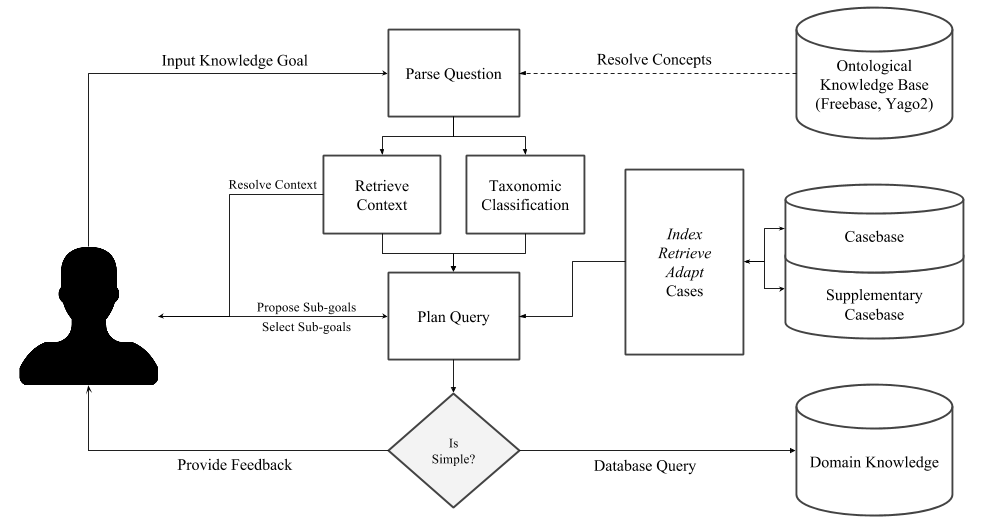
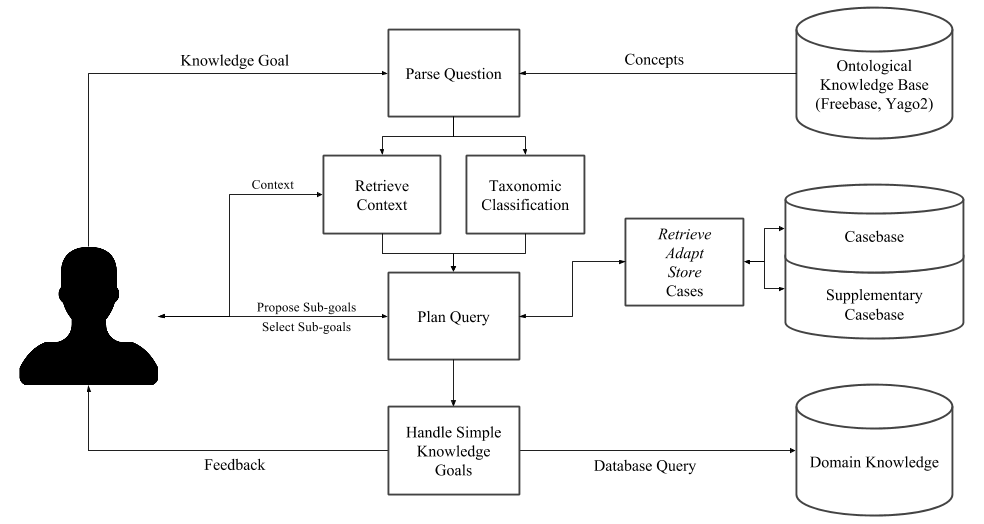
final revisions

diff --git a/pending/ACS-GRW2015/main.tex b/pending/ACS-GRW2015/main.tex
@@ -46,9 +46,9 @@ Knowledge goals are used by reasoning entities to fill in information required f
 
 A \textit{knowledge goal} represents the purposeful need to acquire information in order to fill in gaps of world knowledge for a reasoning entity or to extend the database of a computational understanding system \cite{ram_goal-based_1991}. For humans, knowledge goals are most easily represented as questions, and current research on dialog-driven question and answer systems focuses on the semantic parsing of a natural language question to a structured database query \cite{yahya_natural_2012} or lambda calculus representation \cite{berant_semantic_2013}. These parsing approaches are making headway in the solution of simple knowledge goals, where the primary task is a retrieval from some structured knowledge base; especially goals that ask who, what, when, or where. This approach, however, cannot solve complex knowledge goals including aggregations, opinions (recommendations), or explanations for why or how questions. As a result, even though information retrieval systems and search have made information easily accessible, there has been the growth of community-driven question sites such as Quora \cite{wang_wisdom_2013} to connect users to the more nuanced answers they are looking for.
 
-We claim that humans solve complex knowledge goals through \textit{investigation}, dividing harder questions into simpler sub-knowledge goals with more easily obtained solutions. When solving knowledge goals, humans also take into account context and approach new problems by leveraging techniques that have worked in the past. A system that models how humans investigate questions will \textit{deconstruct} a complex goal, \textit{integrate} relevant knowledge, and \textit{reuse} methods of investigation. Investigation can be represented as a plan to solve the larger knowledge goal, and if the tasks or subgoals of knowledge acquisition plans are simple knowledge goals that can be solved via structured data retrieval, then a system can be said to solve complex knowledge goals through a planning process that involves the purposeful combination of simpler knowledge goals.
+We claim that humans solve complex knowledge goals through \textit{investigation}, dividing harder questions into simpler sub-knowledge goals with more easily obtained solutions. When solving knowledge goals, humans also take into account context and approach new problems by leveraging techniques that have worked in the past. A system that models how humans investigate questions will \textit{deconstruct} a complex goal, \textit{integrate} relevant knowledge, and \textit{reuse} methods of investigation. Investigation can be represented as a plan to solve the larger knowledge goal, and if the tasks or sub-goals of knowledge acquisition plans are simple knowledge goals that can be solved via structured data retrieval, then a system can be said to solve complex knowledge goals through a planning process that involves the purposeful combination of simpler knowledge goals.
 
-In this paper we present a vision for an interactive knowledge-goal reasoning system that uses a case-based reasoning methodology to deconstruct complex knowledge goals based on previous cases for similar questions. The system will provide users with goal-driven solutions to natural language queries by proposing plans of simpler knowledge goals, which can be satisfied by computationally tractable tasks like database queries or document retrieval. The system takes into account the context of the goal by leveraging semantic resources applied to the question and utilizes a wide array of data sources to perform retrieval tasks--from database queries, to search, to providing other user responses for complex questions. As subtasks are selected by the initiating user, the case-based reasoning system reinforces and indexes how the plan was solved in order to provide more relevant plans or responses in the future.
+In this paper we present a vision for an interactive knowledge-goal reasoning system that uses a case-based reasoning methodology to deconstruct complex knowledge goals based on previous cases for similar questions. The system will provide users with goal-driven solutions to natural language queries by proposing plans for simpler knowledge goals, which can be satisfied by computationally tractable tasks like database queries or document retrieval. The system takes into account the context of the goal by leveraging semantic resources applied to the question and utilizes a wide array of data sources to perform retrieval tasks--from database queries, to search, to providing other user responses for complex questions. As subtasks are selected by the initiating user, the case-based reasoning system reinforces and indexes how the plan was solved in order to provide more relevant plans or responses in the future.
 
 Because this type of system is interactive and adaptive it is subject to goal changes, where the original knowledge goal is changed or refined slightly while the user interactively follows a solution plan. The complete case for solving a complex knowledge goal therefore represents a \textit{goal trajectory}. Goal trajectories are important for refining future cases, ranking plan solutions, and having the system anticipate knowledge goals to propose better plans. Furthermore, the combination of goal trajectories can be seen as a creative process, leading to the extension of not only the casebase, but also to extend automatically the knowledge base of the system.
 
@@ -68,7 +68,7 @@ We can define \textit{simple} knowledge goals as questions that are directly tie
 
 \subsection{Knowledge Goal Representation}
 
-The representation of a knowledge goal can be described by its objective: the type of the expected response (concept specification) and how the information will be used (task specification) \cite{ram_theory_1991}. To create a plan to solve a knowledge goal, a computational system must be able to represent knowledge goals in a structured manner, and identify and parse the structure from a natural language query. We extend this representation to leverage the additional components available in an interactive knowledge-goal reasoning system. Knowledge goals are composed of three primary features: a set of \textit{concepts}, a \textit{task}, and a specific \textit{context}. Each feature contributes to the solution as follows:
+The representation of a knowledge goal can be described by its objective: the type of the expected response (concept specification) and how the information will be used (task specification) \cite{ram_theory_1991}. To create a plan to solve a knowledge goal, a computational system must be able to represent knowledge goals in a structured manner, and identify and parse the structure from a natural language query. We extend this representation to leverage the additional components available in an interactive knowledge-goal reasoning system. Knowledge goals are composed of three primary features: a set of \textit{concepts}, a \textit{task}, and a specific \textit{context}.
 
 \begin{enumerate}
 
@@ -81,35 +81,35 @@ The representation of a knowledge goal can be described by its objective: the ty
 
 In the question ``\textit{When is the next flight to Paris?}'' the \textit{concept} explicitly includes the topic \texttt{Air Travel} as well as a city, \texttt{Paris}. Implied concepts might include \texttt{Paris, France}, the most popular city named Paris, and \texttt{Charles de Gaulle Airport}. The \textit{task} can generally be defined as a simple database query or search, but more specifically the return of a specific \texttt{Flight} record. The \texttt{context} is critical as well, especially the geographic context (the next flight to Paris from the city where the user is currently located) and the temporal context (in order to determine when the next flight might be).
 
-Many applications simplify one or more components of a knowledge goal in order to be effective. Domain-specific applications reduce ambiguity in concepts and context by allowing only specifically relevant knowledge goals. More commonly, applications simplify the task and are designed to return only a single type of result. However, the widespread availability of large, general knowledge bases combined with timely contextual information from mobile devices mean that complete, personalized question and answer systems are becoming computationally tractable and knowledge goal simplification can no longer be used as an approximation for goal reasoning systems.
+Many applications simplify one or more components of a knowledge goal in order to be effective. Domain-specific applications reduce ambiguity in concepts and context by allowing only specifically relevant knowledge goals. More commonly, applications simplify the task and are designed to return only a single type of result. However, the widespread availability of large knowledge bases combined with timely contextual information from mobile devices mean that complete, personalized question and answer systems are becoming computationally tractable and knowledge goal simplification should no longer be used as an approximation for goal reasoning systems.
 
 \subsection{Solving Knowledge Goals}
 
 % Mention interactivity? %
 
-An important step in the development of dialog-driven question and answer systems was the creation of large-scale structured knowledge bases like Freebase \cite{bollacker_freebase:_2008} and Yago2 \cite{suchanek_yago:_2007}. These databases represent a wealth of information generated from collaboratively edited encyclopedic sites like Wikipedia and provide the means with which to make factual queries about the world. Semantic parsers can take advantage of hierarchical, relational ontologies which allow for a generalization in the domain or \textit{concept} component of a question. For simple knowledge goals, semantic parsers can transform natural language questions into structured queries like SPARQL or SQL \cite{yahya_natural_2012}, a lambda-calculus representation \cite{berant_semantic_2013}, or simply a template from which to directly search other answers \cite{unger_template-based_2012}.
+An important step in the development of dialog-driven question and answer systems was the creation of large-scale structured knowledge bases like Freebase \cite{bollacker_freebase:_2008} and Yago2 \cite{suchanek_yago:_2007}. These databases represent a wealth of information generated from collaboratively edited encyclopedic sites like Wikipedia and provide the means with which to make factual queries about the world. Semantic parsers can take advantage of hierarchical, relational ontologies which allow for a generalization in the domain or \textit{concept} component of a question. For simple knowledge goals, semantic parsers can transform natural language questions into structured queries like SPARQL or SQL \cite{yahya_natural_2012}, a lambda-calculus representation \cite{berant_semantic_2013}, or simply a template to directly search other answers \cite{unger_template-based_2012}.
 
 However, these parsers will struggle with even slightly more complex natural language queries tasked with a database lookup in a knowledge base, such as ``\textit{Who was the King of England when Thomas Jefferson was President?}'' This knowledge goal is a factual retrieval that can be solved by chaining subqueries to first solve which years Thomas Jefferson was President of the United States, then use the result to determine the King of England during that time period. Similarly, knowledge goals that require aggregation, such as ``\textit{How many countries have won three consecutive gold medals in a single sport?}'', may be able to be transformed into a series of simpler sub queries which contribute information to a final result.
 
-The decomposition method of solving fact-based retrieval questions can also be applied to complex knowledge goals whose task is not simply a query or search. When a complex knowledge goal is reduced to one or more simpler sub goals, the result is a hierarchical plan to solve the original knowledge goal. If the final leaf nodes of such a plan are simple knowledge goals which can be transformed into a query or a search, then a system can said to solve complex knowledge goals through the computationally tractable combination of simpler knowledge goals.
+The decomposition method of solving fact-based retrieval questions can also be applied to complex knowledge goals whose task is not simply a query or search. When a complex knowledge goal is reduced to one or more simpler sub-goals, the result is a hierarchical plan to solve the original knowledge goal. If the final leaf nodes of such a plan are simple knowledge goals which can be transformed into a query or a search, then a system can said to solve complex knowledge goals through the computationally tractable combination of simpler knowledge goals.
 
 \begin{figure}
 	\centering
 	    \includegraphics[width=\textwidth]{figures/simple_trajectory.png}
-    \caption{\label{fig:simple_trajectory.png}Interactive knowledge goal reasoning on the complex goal, ``What courses should I take next semester?''. The system resolves context dependencies, then proposes a plan of simpler sub-goals that lead to database queries using information from prior goals (represented as \texttt{\small\$VAR)}. Depending on the interaction, a goal trajectory can modify the original goal to ``Can I graduate next semester?'', which continues the process.}
+    \caption{\label{fig:simple_trajectory.png}Interactive knowledge goal reasoning on the complex goal ``What courses should I take next semester?'' The system resolves context dependencies and then proposes a plan of simpler sub-goals that lead to database queries using information from prior goals (represented as \texttt{\small\$VAR)}. Depending on interaction, goal trajectories can modify the original goal to ``Can I graduate next semester?'' continuing the process.}
 \end{figure}
 
-Consider an example complex knowledge goal, ``\textit{What courses should I take next semester?}'', outlined in Figure \ref{fig:simple_trajectory.png}. This knowledge goal is routine, executed by the same user on a regular interval and common enough that a casebase of solutions is readily available. The task of this knowledge goal is to create a list of courses which are available next semester and which the student will presumably be able to register for. The concept of the question is the domain of courses that are available at a particular university during a particular semester. The context for a user determines preference in terms of the selected major or course level as well as geographical context (which specific university) and temporal context (which specific semester).
+Consider an example complex knowledge goal ``\textit{What courses should I take next semester?}'' outlined in Figure \ref{fig:simple_trajectory.png}. This knowledge goal is routine, executed by the same user on a regular interval and common enough that a casebase of solutions is readily available. The task of this knowledge goal is to create a list of courses which are available next semester and which the student will presumably be able to register for. The concept of the question is the domain of courses that are available at a particular university during a particular semester. The context for a user determines preference in terms of the selected major or course level as well as geographical context (which specific university) and temporal context (which specific semester).
 
-In order to solve this knowledge goal, a plan of simpler sub knowledge goals may be offered to the user. If contextual information is missing, the system might respond with ambiguity resolution goals of its own (e.g. ``\textit{Have you selected a major?}''). Otherwise simpler sub knowledge goals could include ``\textit{What days and times would you prefer?}'', ``\textit{Are there any academic subjects you're interested in?}'', or ``\textit{Do you have any academic requirements?}'' Responses to these sub-knowledge goals would lead to even simpler knowledge goals which can be eventually be queried against a course catalog, such as ``\textit{Which Economics courses are available on Monday and Wednesday?}''
+In order to solve this knowledge goal, a plan of simpler sub-knowledge goals may be offered to the user. If contextual information is missing, the system might respond with ambiguity resolution goals of its own (e.g. ``\textit{Have you selected a major?}''). Otherwise simpler sub-knowledge goals could include ``\textit{What days and times would you prefer?}'', ``\textit{Are there any academic subjects you're interested in?}'', or ``\textit{Do you have any academic requirements?}'' Responses to these sub-knowledge goals would lead to even simpler knowledge goals which can be eventually be queried against a course catalog, such as ``\textit{Which Economics courses are available on Monday and Wednesday?}''
 
 \subsection{Goal Trajectories}
 
-The solution to complex knowledge goals is an interactive reasoning approach where a complex knowledge goal is broken down into a hierarchical plan of simpler sub goals and tasks. In an interactive reasoning system, the user selects the next step of plans proposed by the reasoner, and continues to chain sub goals together to work towards a larger solution. During this process, the plan is adaptable and subject to change as the user proceeds in selecting and executing the simpler goals. Goals, like plans, are also subject to change and can be transformed \cite{cox_goal_1998}, therefore we propose that the original knowledge goal itself is also subject to change; and that as knowledge goals change during interactive reasoning, the path that led to the solution of new knowledge goals from the original can be represented by a \textit{goal trajectory}.
+The solution to complex knowledge goals is an interactive reasoning approach where a complex knowledge goal is broken down into a hierarchical plan involving simpler sub-goals and tasks. In an interactive reasoning system, the user selects the next step of plans proposed by the reasoner, and continues to chain sub-goals together to work towards a larger solution. During this process, the plan is adaptable and subject to change as the user proceeds in selecting and executing the simpler goals. Goals, like plans, are also subject to change and can be transformed \cite{cox_goal_1998}, therefore we propose that the original knowledge goal itself is also subject to change; and that as knowledge goals change during interactive reasoning, the path that led to the solution of new knowledge goals from the original can be represented by a \textit{goal trajectory}.
 
 Goal trajectories can be influenced either through the direct interactive manipulation of goals \cite{cox_mixed-initiative_2007} or via other users in the system issuing similar queries that provide the basis for recommending new goals through collaborative filtering \cite{hayes_case-based_2001}. State changes in the system via monitoring of new information or relevant data that has been added to the knowledge base can also lead to new, interactive responses. In either case, goal changes can be seen as a planning problem where knowledge goals are not static, and an interactive reasoning system must be responsive to goal changes.
 
-The concept of goal trajectories can then be used to explicitly define relationships between knowledge goals as cases for future solutions. In the example from Figure \ref{fig:simple_trajectory.png}, a goal trajectory is demonstrated by the proposed sub-knowledge goal, ``\textit{Do you have any academic requirements?}'', which leads the user to change the goal to ``\textit{Can I graduate next semester?}'' This goal trajectory can then be used in future cases to propose graduate related sub goals to those who may be close to finishing their degree.
+The concept of goal trajectories can then be used to explicitly define relationships between knowledge goals as cases for future solutions. In the example from Figure \ref{fig:simple_trajectory.png}, a goal trajectory is demonstrated by the proposed sub-knowledge goal ``\textit{Do you have any academic requirements?}'' This leads the user to change the goal to ``\textit{Can I graduate next semester?}'' This goal trajectory can then be used in future cases to propose graduate related sub-goals to those who may be close to finishing their degree.
 
 \subsection{Knowledge Goal Taxonomy} \label{ssec:taxonomy}
 
@@ -157,12 +157,12 @@ Tasks related to solving complex knowledge goals require some learning framework
 
 \section{Case-Based Reasoning for Knowledge Goals}
 
-Our vision to solve complex knowledge goals is an \textit{interactive case-based reasoning system (CBR)} which reuses past experience \cite{kolodner_case-based_1993,lopez_de_mantaras_retrieval_2005}. Interactive CBR operates similarly to conversational case-based reasoning systems, which incrementally elicits a target problem through an interactive dialog with the user, attempting to minimize the number of questions before a solution is reached \cite{aha_advances_2005}. In order to provide an adaptable, investigative system, the methodology we are exploring guides the user through goal trajectories, removing the requirement to minimize session length in order to facilitate an ongoing discovery process. Additionally, the system itself is a learning agent with the goal of predicting future knowledge goals, and acquiring the information in advance.
+Our proposed solution for complex knowledge goals is a \textit{case-based reasoning} (CBR) \cite{kolodner_case-based_1993,lopez_de_mantaras_retrieval_2005} system which reuses past experience in an interactive fashion. Interactive CBR operates similarly to conversational case-based reasoning systems, which incrementally elicits a target problem through an interactive dialog with the user, attempting to minimize the number of questions before a solution is reached \cite{aha_advances_2005}. In order to provide an adaptable, investigative system, the methodology we are exploring guides the user through goal trajectories, removing the requirement to minimize session length in order to facilitate an ongoing discovery process. Additionally, the system itself is a learning agent with the goal of predicting future knowledge goals, and acquiring the information in advance.
 
 \begin{figure}
 	\centering
 	    \includegraphics[width=\textwidth]{figures/architecture.png}
-    \caption{\label{fig:architecture.png}An architecture for interactive knowledge-goal reasoning. The goal reasoning system decomposes complex knowledge goals expressed as natural language queries into plans of simpler goals.}
+    \caption{\label{fig:architecture.png}An architecture for interactive knowledge-goal reasoning. The goal reasoning system decomposes complex knowledge goals expressed as natural language queries into plans for simpler goals.}
 \end{figure}
 
 An interactive knowledge-goal reasoning system would require the ability to correctly identify \textit{concepts} through some semantic parsing task. Knowledge goal \textit{concepts} would be used to identify similar knowledge goals in the casebase for retrieval. The system would also require the ability to classify the \textit{task} of the question in order to determine the execution context and to reuse previous cases. Finally the system would utilize the \textit{context} of the questioner to adapt or revise cases for the specific scenario. Knowledge goals and their trajectories would be retained in the casebase along with their relationships such that the system learns over time and can anticipate future knowledge goals, for example by detecting common goal trajectories and proposing shorter paths to those anticipated goals. The required components and architecture of such an interactive knowledge goal system are described in Figure \ref{fig:architecture.png}.
@@ -171,7 +171,7 @@ The input to the system is a natural language question, which is parsed to extra
 
 \subsection{Case Representation}
 
-Individual cases in our methodology would be composed of knowledge goals and their related goal trajectories. The representation can be either frame-based or objectual but would require a log of all questions in the system by user, and their resolution. For every natural language question, the case knowledge goal would include the text of the question, the concepts that were directly added to the question as part of the interactive process and any required context. The task for each case would also be added either as related knowledge goals, executed searches, or database queries. For example, given the case ``\textit{Where should I go to dinner?}'' the representation might include the topics \texttt{Dinner} and \texttt{Restaurant}; the context requirements \texttt{location}, \texttt{restaurant genre preference}, and \texttt{price preference}; and a task which includes the subgoal ``\textit{What are the closest restaurants to my location?}''
+Individual cases in our methodology would be composed of knowledge goals and their related goal trajectories. The representation can be either frame-based or objectual but would require a log of all questions in the system by user, and their resolution. For every natural language question, the case knowledge goal would include the text of the question, the concepts that were directly added to the question as part of the interactive process and any required context. The task for each case would also be added either as related knowledge goals, executed searches, or database queries. For example, given the case ``\textit{Where should I go to dinner?}'' the representation might include the topics \texttt{Dinner} and \texttt{Restaurant}; the context requirements \texttt{location}, \texttt{restaurant genre preference}, and \texttt{price preference}; and a task which includes the sub-goal ``\textit{What are the closest restaurants to my location?}''
 
 The choice to use semantic topics or concepts is not simply because of the availability of structured knowledge bases like Freebase. The concept of each knowledge goal case would be used to generalize the case topically through some hierarchical ontology in order to find similar questions or cases. This generalization would take the form of templates, where topics generalized at several levels of their ontological hierarchy would be placed in context with surrounding text. For example, consider the knowledge goal ``\textit{When does Georgia play Georgia Tech?}'' If the concepts \texttt{University of Georgia} and \texttt{Georgia Institute of Technology} are added to the casebase (both are instances of the topic \texttt{College/University}), then this question could be applied more generally to knowledge goals related to intercollegiate activities. Furthermore if the concepts \texttt{Georgia Bulldogs Basketball} and \texttt{Georgia Tech Yellow Jackets Basketball}, both instances of the topic \texttt{School Sports Team}, are added to the case, then this question can be specified to basketball or football through contextual clues, or to professional sports in the more general case.
 
@@ -215,7 +215,7 @@ Concierge staff are expected to be available to answer questions from tourists w
 
 In this task, the users of the system are expected to ask questions as though they are travelers speaking to a concierge. Other users should respond to the questions as though they are a concierge, giving tips, feedback, suggestions, and recommendations in addition to answering the primary question. To obtain more specific questions, the questions are framed as though the task is taking place in a hotel in downtown Washington DC.
 
-Knowledge goal trajectories are readily apparent in this task because most of the questions are related to advice or opinion. For example, one of the questions in the system, ``\textit{Are the food carts ever a source of food poisoning?}'', led to an interactive session where other users determined that the traveller was interested in foodie experiences related to a popular television travel show. In order to identify gourmet food trucks, they proposed a truck tracker app for the traveller's iPhone. This led to a discussion of other local apps and eventually the traveller was receiving advice about how to use the Metro and Smithsonian apps.
+Knowledge goal trajectories are readily apparent in this task because most of the questions are related to advice or opinion. For example, one of the questions in the system ``\textit{Are the food carts ever a source of food poisoning?}'' led to an interactive session where other users determined that the traveller was interested in foodie experiences related to a popular television travel show. In order to identify gourmet food trucks, they proposed a truck tracker app for the traveller's iPhone. This led to a discussion of other local apps and eventually the traveller was receiving advice about how to use the Metro and Smithsonian apps.
 
 \subsection{Presidential Briefer}
 
@@ -223,19 +223,19 @@ The second case acquisition task simulated the creation of a presidential briefi
 
 In this task, users are expected to anticipate questions that the president might ask when they brief him, specifically from news stories that they are preparing the briefing for. Users should prepare questions related to specific news stories, and include the news stories as background in the details section of the question. ``Answers'' to these questions should be detailed, and also anticipatory of ``follow-on'' questions that the president might ask.
 
-This task was designed to capture not only knowledge goal trajectories in the form of follow-on questions, but also to expand the variety of tasks from the knowledge goal taxonomy. In particular, because these knowledge goals were related to specific news items, textual and contextual knowledge goals would be implicitly added to the case. From the part of the user, our preliminary observations suggest that the primary follow-on question was a relevance goal; e.g. given a briefing about an investigation into corporation, ``\textit{What might the impact on the economy be if this company is broken up?}'' is a knowledge goal attempting to associate the information given to economic impacts in the case of a drastic decision.
+This task was designed to capture not only knowledge goal trajectories in the form of follow-on questions, but also to expand the variety of tasks from the knowledge goal taxonomy. In particular, because these knowledge goals were related to specific news items, textual and contextual knowledge goals would be implicitly added to the case. From the part of the user, our preliminary observations suggest that the primary follow-on question was a relevance goal; e.g. given a briefing about an investigation into corporation ``\textit{What might the impact on the economy be if this company is broken up?}'' is a knowledge goal attempting to associate the information given to economic impacts in the case of a drastic decision.
 
 \subsection{Undergraduate Adviser}
 
 The final task is directly related to the example question that we posed in this paper. Users should pose questions to the system as though they are an undergraduate student asking for advice from an adviser or guidance counsellor. Questions in this task can be varied, including issues about courses, plans of study, policy (medical leave, absence, etc.), or even personal issues.
 
-Undergraduate advisers must have a large amount of domain-specific knowledge, from University policy, to course requirements and schedules, to other personal matters. They not only answer questions that undergraduates pose to them, but also respond with detailed, specific instructions for students to carry out. We hoped to capture more related knowledge goals due to the specificity of this domain, as well as utilize an institution-specific ontology to more clearly capture related concepts.
+Undergraduate advisers must have a large amount of domain-specific knowledge, from University policy, to course requirements and schedules, to other personal matters. They not only answer questions that undergraduates pose to them, but also respond with detailed, specific instructions for students to carry out. Due to the specificity of this domain, this task allows the capture of more related knowledge goals and allows the use of an institution-specific ontology to simplify concepts.
 
 \section{Related Work}
 
 This work is most closely related to the work in conversational case-based reasoning, where interactive dialogs are used to specify the case upon which to reason \cite{aha_advances_2005}. Goal-driven conversational case-based reasoning is explored in \cite{mcsherry_conversational_2005} to identify relevant questions posed to the user in order to target cases. The use of semantic networks and ontological concepts is used in \cite{gu_knowledge-intensive_2005} to map questions to features in order to find relations among cases. Finally, the integration of case-based reasoning with task decomposition was explored in \cite{munoz-avila_sin:_2001}, showing how the generation of plans can result in goal changes.
 
-Systems that leverage large data sets of community organized questions and answers focus on the task of question similarity. Statistical models based on both the question text as well as the answers are discussed in \cite{jeon_finding_2005,jeon_finding_2005-1}, work that culminates in a statistical model for retrieval of answers based on query-similarity likelihoods \cite{xue_retrieval_2008}. Answer selection or ranking from the retrieval is typically based on heuristic methods, especially reputation-based mechanisms where other users evaluate answers directly \cite{wang_wisdom_2013}. Original natural language knowledge navigation used case-based reasoning to direct user queries to FAQ files as in \cite{hammond_faq_1995,burke_question_1997,burke_natural_1997}. While these systems engage users collaboratively to explore questions that are not easily answered by the simple retrieval of documents or require explanations, they are of very little use to artificial cognitive agents.
+Systems that leverage large data sets of community organized questions and answers focus on the task of question similarity. Statistical models based on both the question text as well as the answers are discussed in \cite{jeon_finding_2005}, work that culminates in a statistical model for retrieval of answers based on query-similarity likelihoods \cite{xue_retrieval_2008}. Answer selection or ranking from the retrieval is typically based on heuristic methods, especially reputation-based mechanisms where other users evaluate answers directly \cite{wang_wisdom_2013}. Original natural language knowledge navigation used case-based reasoning to direct user queries to FAQ files as in \cite{hammond_faq_1995,burke_question_1997,burke_natural_1997}. While these systems engage users collaboratively to explore questions not easily answered by search, they don't directly inform a congnitive reasoning system.
 
 On the other end of the spectrum, there has been work designed to translate natural language queries directly to a structured query that can operate on fact based semantic knowledge bases, usually into a SPARQL query as in \cite{yahya_natural_2012,unger_template-based_2012} and \cite{berant_semantic_2013}. These automatic approaches rely heavily on semantic disambiguation and entity resolution, evaluating the query itself against the knowledge base \cite{zheng_entity_2012}. Other approaches include the derivation of proto-queries directly from the knowledge base \cite{frank_question_2007}, akin to question indexing a structured data set. Retrieval mechanisms like predictive annotation and type coercion have led to the success of Watson and other agent-based knowledge systems \cite{prager_question_2006,kalyanpur_leveraging_2011}. However, these systems are restricted only to the retrieval of facts from a database and usually perform little inference or planning concerning the query.
 
@@ -245,7 +245,7 @@ Finally, the theoretical work is based off of \cite{lehnert_human_1977} who prop
 
 Knowledge goals, especially those represented as natural language queries embed goal-related information in three components: structured, semantic \textit{concepts}, questionner-specific \textit{context}, and the relevant \textit{task} or purpose of the knowledge goal which is usually represented as the expected result. Simple knowledge goals are those where the task is computationally feasible - such as a database query or a search. In order to solve a simple knowledge goal, the \textit{concept} and the \textit{context} must be parsed into a representation that can be executed such as a structured database query like SPARQL. Recent research into the semantic parsing of questions has shown that simple information retrieval questions are tractable from large, community built knowledge resources.
 
-Complex knowledge goals, on the other hand, must be decomposed into a hierarchy of simpler knowledge goals, each branch of which contributes information to the final result. In an interactive knowledge-goal reasoning system, users participate alongside the system to solve complex goals by asking questions and responding to proposals for plans of simpler goals that may contribute to the final result. Such systems enhance investigative sessions to generate information, to explain recently acquired knowledge, or to generate solutions to routine questions. When interacting with a system in this way, users may discover that their original knowledge goals change, and that they discover creative results by following goal trajectories of adapting sub-knowledge goal plans.
+Complex knowledge goals, on the other hand, must be decomposed into a hierarchy of simpler knowledge goals, each branch of which contributes information to the final result. In an interactive knowledge-goal reasoning system, users participate alongside the system to solve complex goals by asking questions and responding to proposals of plans for simpler goals that may contribute to the final result. Such systems enhance investigative sessions to generate information, to explain recently acquired knowledge, or to generate solutions to routine questions. When interacting with a system in this way, users may discover that their original knowledge goals change, and that they discover creative results by following goal trajectories of adapting sub-knowledge goal plans.
 
 In this paper we proposed a vision for an interactive case-based reasoning system that could solve knowledge goals similar to conversational case-based systems. This system uses lightweight semantic parsers and a structured knowledge base in coordination with a casebase to represent knowledge goal cases, generalizes them for adaptation, indexes them by relationship for fast retrieval and ranks them to manage and decay stale or ineffectual cases. This knowledge-driven approach primarily relies on the discovery of the concepts in the question combined with a taxonomic classifier for identifying tasks relative to specific user contexts.
 
